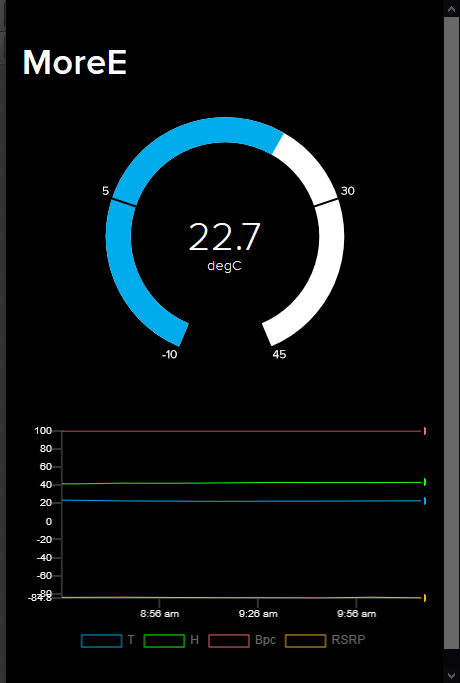
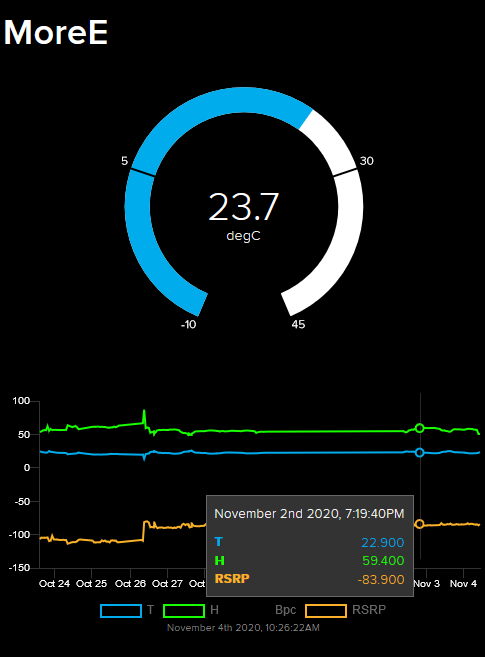
new current readings

Changed region(s): [[0.0, 0.0, 1.0, 1.0], [0.213, 0.1218, 0.7609, 0.5479], [0.3957, 0.274, 0.5783, 0.3957]]

diff --git a/README.md b/README.md
@@ -20,7 +20,7 @@
 
 ## Energy Budget
 
-* 100mA active current;
+* 88mA active current;
 * Code takes ~10 seconds to execute;
 * Wakes every hour;
 * 40uA Sleep current;
@@ -29,8 +29,9 @@
 * V Over discharge = 3.6V;
 * V Over charge = 4.12V;
 
-**Source Power Required = 4.4mW**
-**Storage Required = 5.4mAh**
+**Source Power Required = 3.8mW**
+
+**Storage Required = 4.73mAh**
 
 ![](./power_profile/exec_time.png)
 
@@ -92,13 +93,15 @@ Ref. https://devzone.nordicsemi.com/f/nordic-q-a/44638/how-to-move-an-sdk-exampl
 
 <img src="./pics/dashboard.png" width="50%"> 
 
+https://io.adafruit.com/lbispo/dashboards/moree?kiosk=true
+
 ## Efficiency
 
 <img src="./pics/effchart.png" width="75%"> 
 
 ## Schematic
 
-[![Board BOM](./pics/BOM.png)](./KiCad/BOM.csv)
+[![Board Schematic](./pics/schematic.png)](./PCB/schematic.pdf)
 
 ## PCB
 
